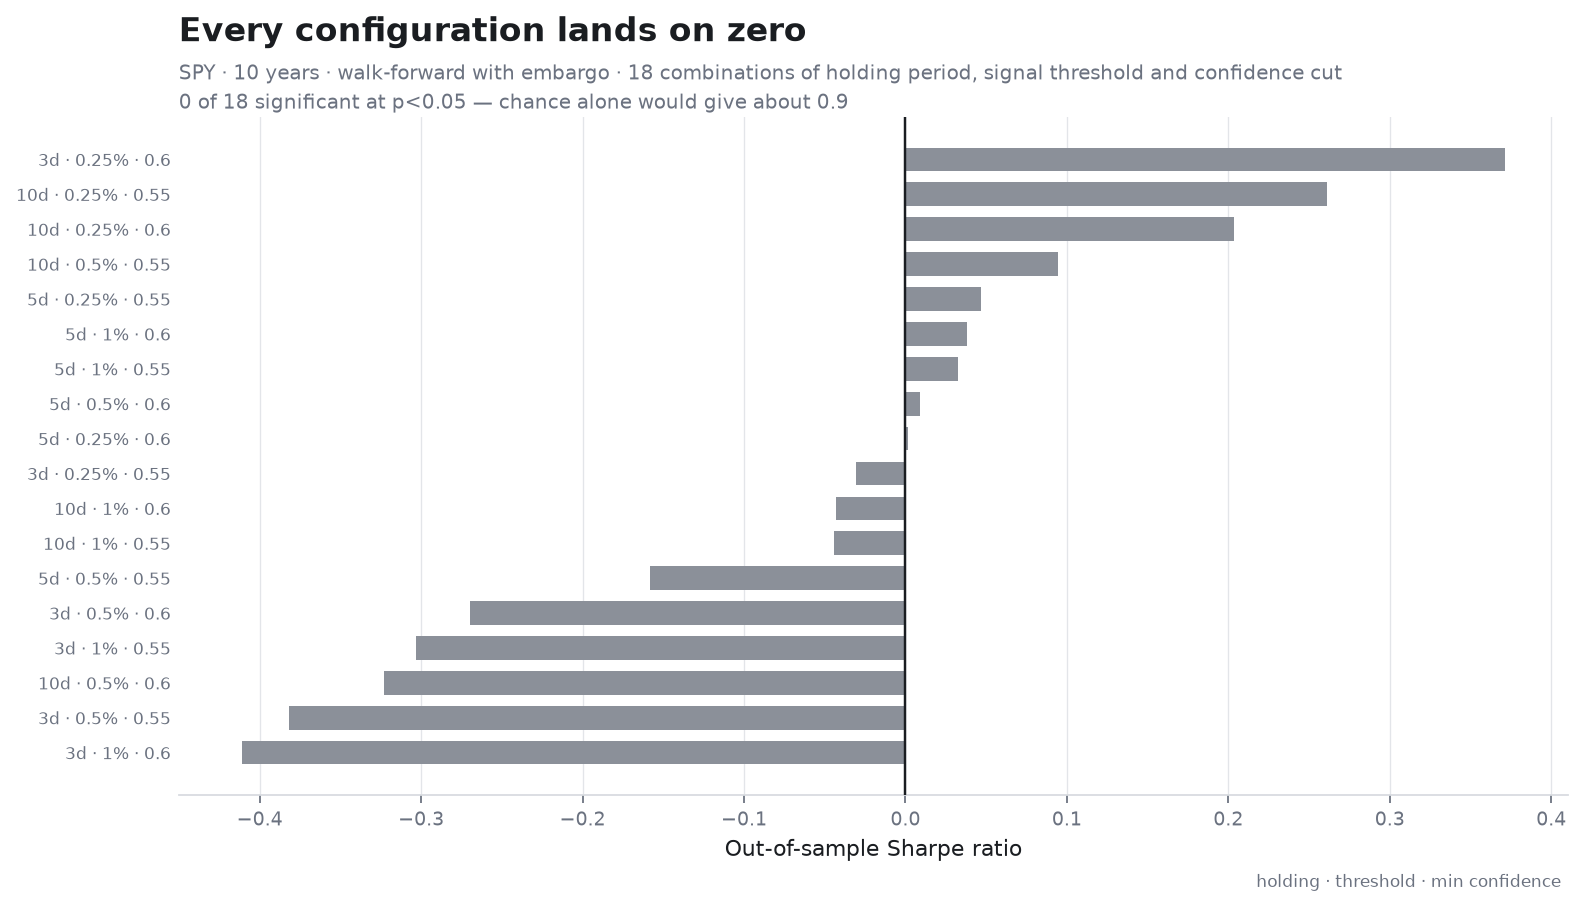
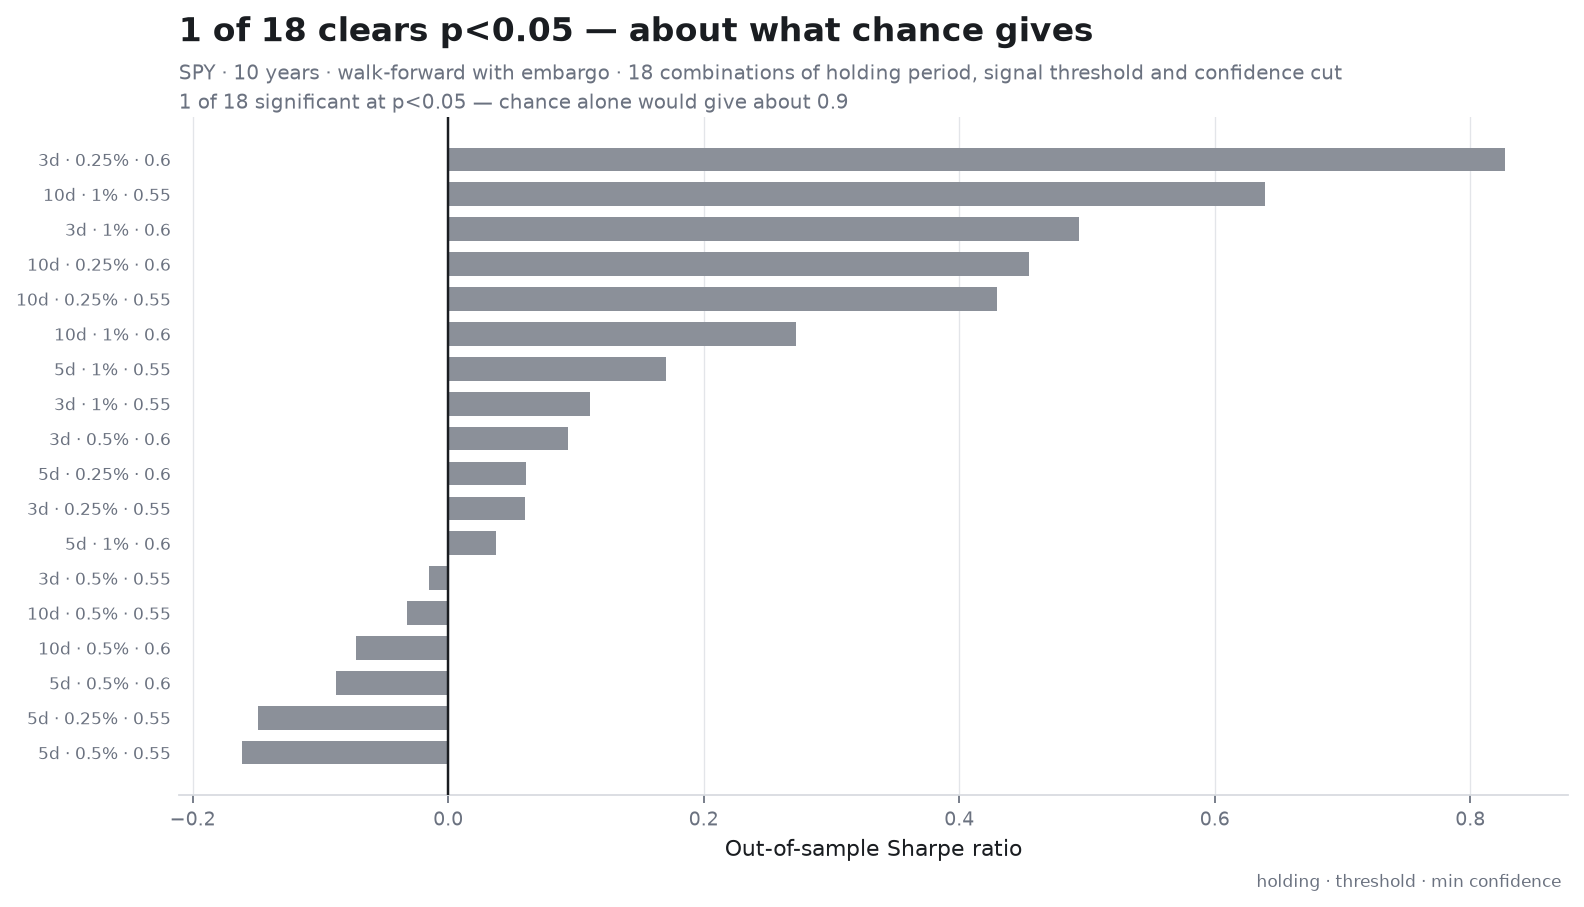
Re-derive every reported table on the corrected pipeline
The censored-label, short-accounting and forward-fill corrections each moved
the numbers, so the OOS table, the fold-stability sweep and the 18-cell
sensitivity grid were regenerated on 2026-11-11 and the README rewritten
from them. The conclusion is unchanged: Sharpe 0.03 out-of-sample, CI
[-0.55, 0.80], p = 0.93, against 238% for buy and hold.

Two things changed that the text now says plainly. The out-of-sample trade
count roughly doubled, because positions open at a fold boundary are now
counted as trades. And one grid cell clears p<0.05 -- the single false
positive a grid of eighteen is expected to produce -- so the figure's title
is now read from the data instead of asserting that every cell lands on
zero. The fold-stability CSV the README cites is committed alongside the
sensitivity grid, with a .gitignore exception for docs/*.csv.

Also: the project tree now lists labels.py and scripts/, the test count is
212, and the overview no longer describes the repository as a showcase.

diff --git a/scripts/plot_results.py b/scripts/plot_results.py
@@ -26,8 +26,9 @@ DEFAULT_CSV = ROOT / "docs" / "sensitivity_spy_10y.csv"
 INK = "#1a1d21"
 MUTED = "#6b7280"
 HAIRLINE = "#d8dbe0"
-# One neutral colour on purpose. None of these configurations is significant,
-# so colouring by sign would dress noise up as winners and losers.
+# One neutral colour on purpose. Nothing in this grid clears what chance
+# would produce, so colouring by sign would dress noise up as winners and
+# losers.
 BAR = "#8b9099"
 
 
@@ -48,10 +49,19 @@ def main(csv: str | None = None) -> int:
     ax.axvline(0, color=INK, linewidth=1.1, zorder=3)
     ax.set_xlabel("Out-of-sample Sharpe ratio", fontsize=10, color=INK)
     significant = int((frame["p_value"] < 0.05).sum())
-    ax.set_title(
-        "Every configuration lands on zero",
-        fontsize=15, color=INK, loc="left", pad=34, weight="600",
-    )
+    expected = 0.05 * len(frame)
+    # The title is read from the data. It used to say "Every configuration
+    # lands on zero", which was true of the run that wrote it and false of the
+    # next one, where a single cell cleared p<0.05 -- the one false positive a
+    # grid this size is expected to produce. A title that cannot change with
+    # the numbers under it is a caption waiting to become a lie.
+    if significant == 0:
+        title = "Every configuration lands on zero"
+    elif significant <= round(expected):
+        title = f"{significant} of {len(frame)} clears p<0.05 — about what chance gives"
+    else:
+        title = f"{significant} of {len(frame)} clear p<0.05 — more than chance gives"
+    ax.set_title(title, fontsize=15, color=INK, loc="left", pad=34, weight="600")
     ax.text(
         0, 1.055,
         f"SPY · 10 years · walk-forward with embargo · {len(frame)} combinations of "
@@ -61,7 +71,7 @@ def main(csv: str | None = None) -> int:
     ax.text(
         0, 1.012,
         f"{significant} of {len(frame)} significant at p<0.05 — "
-        f"chance alone would give about {0.05 * len(frame):.1f}",
+        f"chance alone would give about {expected:.1f}",
         transform=ax.transAxes, fontsize=9, color=MUTED,
     )
 

diff --git a/README.md b/README.md
@@ -51,28 +51,36 @@ different.
 
 ## Results
 
-**SPY, 10 years (2016-08 to 2026-08), 37 walk-forward folds, 2,183 out-of-sample days.**
+**SPY, 10 years (2016-11 to 2026-11), 37 walk-forward folds, 2,183 out-of-sample days.**
 5-day holding, 0.5% signal threshold, 0.1% transaction cost per leg.
 
 | | In-sample | Walk-forward (OOS) | Buy & hold |
 |---|---:|---:|---:|
-| Total return | 17.0% | **-0.2%** | **262.0%** |
-| Sharpe | 1.29 | **0.00** | 0.86 |
-| Trades | 50 | 68 | 1 |
+| Total return | 7.4% | **0.4%** | **237.9%** |
+| Sharpe | 0.63 | **0.03** | 0.81 |
+| Trades | 29 | 127 | 1 |
 
-Stationary-bootstrap Sharpe 95% CI on OOS daily returns: **[-0.503, 0.749]**
-t-test on mean daily return: **t = 0.001, p = 0.999**
+Stationary-bootstrap Sharpe 95% CI on OOS daily returns: **[-0.547, 0.802]**
+t-test on mean daily return: **t = 0.092, p = 0.926**
+
+Re-derived 2026-11-11 after three corrections to the pipeline, each of which
+moved the numbers and none of which moved the conclusion: censored rows at the
+end of each training window were being labelled 0 instead of dropped; a short
+position was charged its notional twice; and a position still open at a fold
+boundary was booked to cash but never counted as a trade, which is why the
+out-of-sample trade count roughly doubled. The in-sample Sharpe fell from 1.29
+to 0.63 on the corrected labels alone.
 
 ### There is no statistically detectable edge
 
 The confidence interval comfortably includes zero and the strategy is beaten
-by roughly 262 percentage points by doing nothing at all. This is the finding,
+by roughly 238 percentage points by doing nothing at all. This is the finding,
 and it is reported rather than buried.
 
 Three things are worth drawing out.
 
-**The in-sample figure is meaningless, and the gap shows why.** Sharpe 1.29
-in-sample against 0.00 out-of-sample is what fitting a model on the rows you
+**The in-sample figure is meaningless, and the gap shows why.** Sharpe 0.63
+in-sample against 0.03 out-of-sample is what fitting a model on the rows you
 then score it on buys you. The dashboard still displays the in-sample panel,
 explicitly labelled as such, because that gap is the most useful thing the
 project has to teach.
@@ -89,15 +97,17 @@ interval excludes zero where the stationary one includes it. Pass
 **Small samples will lie to you.** On 2 years of data (4 folds, 17 trades) the
 OOS Sharpe came out at 0.93 — and it *rose* when leakage was removed, which is
 the wrong direction and a clear signal the sample could not resolve anything.
-Only at 37 folds does the estimate settle near zero. Any backtest reporting a
-Sharpe off a handful of trades is reporting noise.
+Only at 37 folds does the estimate settle near zero. The same 2-year window
+today reads -0.36 on 14 trades. Any backtest reporting a Sharpe off a handful
+of trades is reporting noise.
 
 **The label-overlap embargo is correct and buys nothing measurable.** The label
 is a forward return over `horizon` bars, so a training row within `horizon` of
 the test window is computed partly from test-period prices. `gap=label_horizon`
-on `TimeSeriesSplit` removes that overlap. Measured on the current code, holding
-everything else fixed, it moves CV AUC from **0.520 to 0.527** and accuracy from
-0.505 to 0.516 — inside the noise, and if anything upward.
+on `TimeSeriesSplit` removes that overlap. Measured before the label correction,
+holding everything else fixed, it moved CV AUC from **0.520 to 0.527** and accuracy
+from 0.505 to 0.516 — inside the noise, and if anything upward. On the corrected
+labels the classifier reads CV AUC 0.517 with the embargo in place.
 
 That is not the result an earlier version of this section reported, which cited
 a fall from 0.674 to 0.511 and called the difference leakage. That pair does not
@@ -122,7 +132,11 @@ folds and seed constant and varying only these two settings:
 |---|---:|---:|---:|---:|
 | fill on the signal bar, stops on close | 61 | -1.13% | -0.05 | 0.89 |
 | + one-bar execution lag | 61 | +0.71% | 0.05 | 0.89 |
-| + intrabar stops (current default) | 68 | -0.20% | 0.00 | 1.00 |
+| + intrabar stops | 68 | -0.20% | 0.00 | 1.00 |
+
+That table was measured before the label correction. The same default
+configuration on the corrected labels, with end-of-fold positions now counted,
+reads 127 trades, +0.40%, Sharpe 0.03, p = 0.93.
 
 An earlier version of this section reported that the execution lag cost the
 strategy its remaining return. It does not: on this data the lag *improves* the
@@ -135,7 +149,7 @@ logic; the effect sizes were never large enough to attribute.
 Set `execution_lag_bars=0` and `intrabar_stops=False` to reproduce the first
 row.
 
-The February–March 2020 fold is the worst single window: -3.9% across 15
+The January–March 2020 fold is the worst single window: -6.2% across 22
 trades as the model traded actively into the COVID drawdown. Regime-conditional
 performance is broken out in the dashboard.
 
@@ -146,33 +160,38 @@ much. It does:
 
 | Min train bars | Test bars | Folds | Trades | OOS Sharpe | p |
 |---:|---:|---:|---:|---:|---:|
-| 252 | 63 | 35 | 62 | **+0.05** | 0.89 |
-| 252 | 126 | 17 | 82 | +0.02 | 0.96 |
-| 250 | 60 | 37 | 66 | +0.01 | 0.98 |
-| 300 | 63 | 35 | 77 | -0.03 | 0.93 |
-| 252 | 60 | 37 | 82 | -0.10 | 0.77 |
-| 250 | 63 | 35 | 76 | **-0.29** | 0.39 |
+| 300 | 63 | 35 | 123 | **+0.09** | 0.79 |
+| 252 | 63 | 35 | 113 | +0.05 | 0.88 |
+| 250 | 63 | 35 | 86 | +0.01 | 0.97 |
+| 250 | 60 | 37 | 125 | -0.01 | 0.98 |
+| 252 | 126 | 17 | 116 | -0.04 | 0.90 |
+| 252 | 60 | 37 | 96 | **-0.18** | 0.61 |
 
 Moving the minimum training window by two bars — 250 to 252, holding test bars
-at 63 — moves the OOS Sharpe from -0.29 to +0.05, and flips its sign. Nothing
-about the strategy changed. The six configurations span 0.34 of Sharpe purely
-on where the folds happen to land.
+at 60 — moves the OOS Sharpe from -0.01 to -0.18; moving the test window by
+three bars instead, 60 to 63, takes it back to +0.05 and flips the sign.
+Nothing about the strategy changed. The six configurations span 0.27 of Sharpe
+purely on where the folds happen to land.
 
-Not one is significant; the smallest p-value in the set is 0.39. That is the
+Not one is significant; the smallest p-value in the set is 0.61. That is the
 useful reading: the spread is noise around zero, and any single number drawn
 from it would be a number about the fold boundaries rather than about the
 strategy.
 
-The instability is sharper than one table can show. An earlier run of this same
-grid returned six negative Sharpes; this one returns three positive and three
-negative, with no change to the strategy and two weeks more data. A set that
-cannot hold its sign between runs is not measuring the strategy, and reporting
-any single cell from it — including the best one — would be reporting the
-sampling noise instead.
+The instability is sharper than one table can show. Successive runs of this
+same grid have returned six negative Sharpes, then three and three, then the
+split above, with no change to the strategy between them beyond the
+corrections noted earlier and a few months more data. A set that cannot hold
+its sign between runs is not measuring the strategy, and reporting any single
+cell from it — including the best one — would be reporting the sampling noise
+instead.
 
 ```bash
-python scripts/fold_stability.py SPY 10y
+python scripts/fold_stability.py SPY 10y     # writes docs/fold_stability_spy_10y.csv
 ```
+
+Full sweep: [`docs/fold_stability_spy_10y.csv`](docs/fold_stability_spy_10y.csv), committed
+alongside the sensitivity grid.
 
 ### How many configurations were tried?
 
@@ -183,19 +202,23 @@ walk-forward with embargo and per-fold preprocessing:
 
 | | |
 |---|---|
-| OOS Sharpe across 18 configurations | min **-0.41** · median **-0.01** · max **0.37** |
-| Significant at p < 0.05 | **0 of 18** |
+| OOS Sharpe across 18 configurations | min **-0.16** · median **0.08** · max **0.83** |
+| Significant at p < 0.05 | **1 of 18** |
 | Expected false positives at p < 0.05 | ~0.9 |
 
 The best cell by Sharpe — 3-day holding, 0.25% threshold, 0.60 confidence —
-returns 2.1% with Sharpe 0.37 on 29 trades. Reported alone that would look like
-a finding. Its p-value is 0.28, it is one of eighteen attempts, and its return
-is a rounding error beside the buy-and-hold figure above. Note also that it is
-not the best cell by *return*: that is 10-day / 0.25% / 0.55, at 7.7% and Sharpe
-0.26. Which configuration is "best" depends on which column you rank by, and the
-two disagree — a grid with a real edge in it would not behave that way.
-Searching a grid this size would be expected to throw up about one spuriously
-significant result; it produced none. The median configuration is negative.
+returns 9.2% with Sharpe 0.83 on 56 trades, p = 0.016. Reported alone that
+would look like a finding, and it is the one cell in the grid that clears the
+5% bar. It is also exactly what a grid of eighteen is expected to produce by
+chance: about 0.9 false positives, and here is the one. Its neighbours do not
+support it (the same holding and threshold at 0.55 confidence reads Sharpe
+0.06), and its return is a rounding error beside the buy-and-hold figure above.
+Note also that it is not the best cell by *return*: that is 10-day / 0.25% /
+0.55, at 11.9% and Sharpe 0.43, p = 0.21. Which configuration is "best" depends
+on which column you rank by, and the two disagree — a grid with a real edge in
+it would not behave that way. An earlier run of the same grid produced no
+significant cell and a negative median; this one produces one and a median of
+0.08. Neither is a signal.
 
 ```bash
 python scripts/sensitivity.py SPY 10y     # writes docs/sensitivity_spy_10y.csv
@@ -203,8 +226,9 @@ python scripts/sensitivity.py SPY 10y     # writes docs/sensitivity_spy_10y.csv
 
 Full grid: [`docs/sensitivity_spy_10y.csv`](docs/sensitivity_spy_10y.csv) — committed,
 so the table and the figure above can both be checked against it. Regenerated
-2026-08-28 on the pinned dependency set; rerunning moves the cells slightly as the
-data window rolls forward, and has not yet moved the conclusion.
+2026-11-11 on the pinned dependency set, after the corrections above; rerunning
+moves the cells as the data window rolls forward, and has not yet moved the
+conclusion.
 
 
 ### Reproducing it
@@ -239,7 +263,8 @@ streamlit run stock_dashboard/app.py
 
 ## Overview
 
-This project builds a supervised learning pipeline for short-term equity direction prediction, backed by a realistic event-driven backtest engine. The goal is to showcase ML engineering patterns applicable to systematic trading infrastructure.
+A supervised pipeline for short-term equity direction prediction, an event-driven
+backtest engine, and the validation apparatus around them.
 
 **Capabilities:**
 - Sklearn-compatible data pipeline with configurable technical indicator computation, outlier capping, missing-data handling, and feature selection
@@ -265,6 +290,7 @@ equity-signal-engine/
 │   │   ├── 1_Signal_Generator.py   # ML model training + signal view
 │   │   └── 2_Strategy_Backtest.py  # Backtest configuration + results
 │   ├── data_pipeline.py        # Data fetching + sklearn Pipeline
+│   ├── labels.py               # Forward-return label; censored rows dropped, not labelled
 │   ├── models.py               # Model training + evaluation
 │   ├── backtest.py             # Event-driven backtest engine (vectorized)
 │   ├── walk_forward.py         # Walk-forward OOS validation engine
@@ -277,6 +303,7 @@ equity-signal-engine/
 │   └── schemas.py              # Pydantic request/response models
 ├── tests/
 │   ├── test_data_pipeline.py   # feature pipeline + transformers
+│   ├── test_labels.py          # label construction + censoring
 │   ├── test_models.py          # training, CV, calibration
 │   ├── test_backtest.py        # execution, stops, costs, lag
 │   ├── test_walk_forward.py    # folds, embargo, per-fold refit
@@ -286,6 +313,12 @@ equity-signal-engine/
 │   ├── test_monitoring.py      # drift detection
 │   ├── test_pages_importable.py# Streamlit pages parse and import
 │   └── test_api.py             # REST endpoints
+├── scripts/
+│   ├── measure_oos.py          # in-sample vs walk-forward vs buy-and-hold, CI, t-test
+│   ├── sensitivity.py          # the 18-configuration grid -> docs/sensitivity_*.csv
+│   ├── fold_stability.py       # fold-boundary sweep -> docs/fold_stability_*.csv
+│   └── plot_results.py         # the README figure, from the committed CSV
+├── docs/                       # committed measurements the README tables are read from
 ├── .github/workflows/
 │   └── test.yml                # CI: pytest on every push
 ├── requirements.txt
@@ -294,7 +327,7 @@ equity-signal-engine/
 
 ## Tests
 
-194 tests across the full pipeline, run automatically on every push:
+212 tests across the full pipeline, run on every push against Python 3.11 and 3.12:
 
 ```bash
 pytest tests/
@@ -323,6 +356,12 @@ pytest tests/
 - **Preprocessing fit inside each fold**: the scaler, outlier bounds and
   correlation-based feature selection are fitted on training rows only, then applied
   to the contiguous train+test span so rolling indicators keep their trailing history
+- **Censored rows are dropped, not labelled**: the last `horizon` rows of any window have
+  no observable outcome. `labels.add_target` removes them before the label is formed;
+  an earlier version labelled them 0, which put fabricated negatives directly against
+  every test fold
+- **Gaps are filled forward only**: a backward fill writes a later bar into an earlier row.
+  Leading rows with no indicator history stay NaN and are zero-filled at the end
 - **Price columns never scaled**: Close/Open/High/Low remain in dollar terms for backtest accuracy
 - **Time-series CV**: `TimeSeriesSplit` throughout — no random shuffling of temporal data
 - **Depth-constrained Random Forest**: `max_depth=5`, `min_samples_leaf=25` to resist overfitting on noisy financial data
